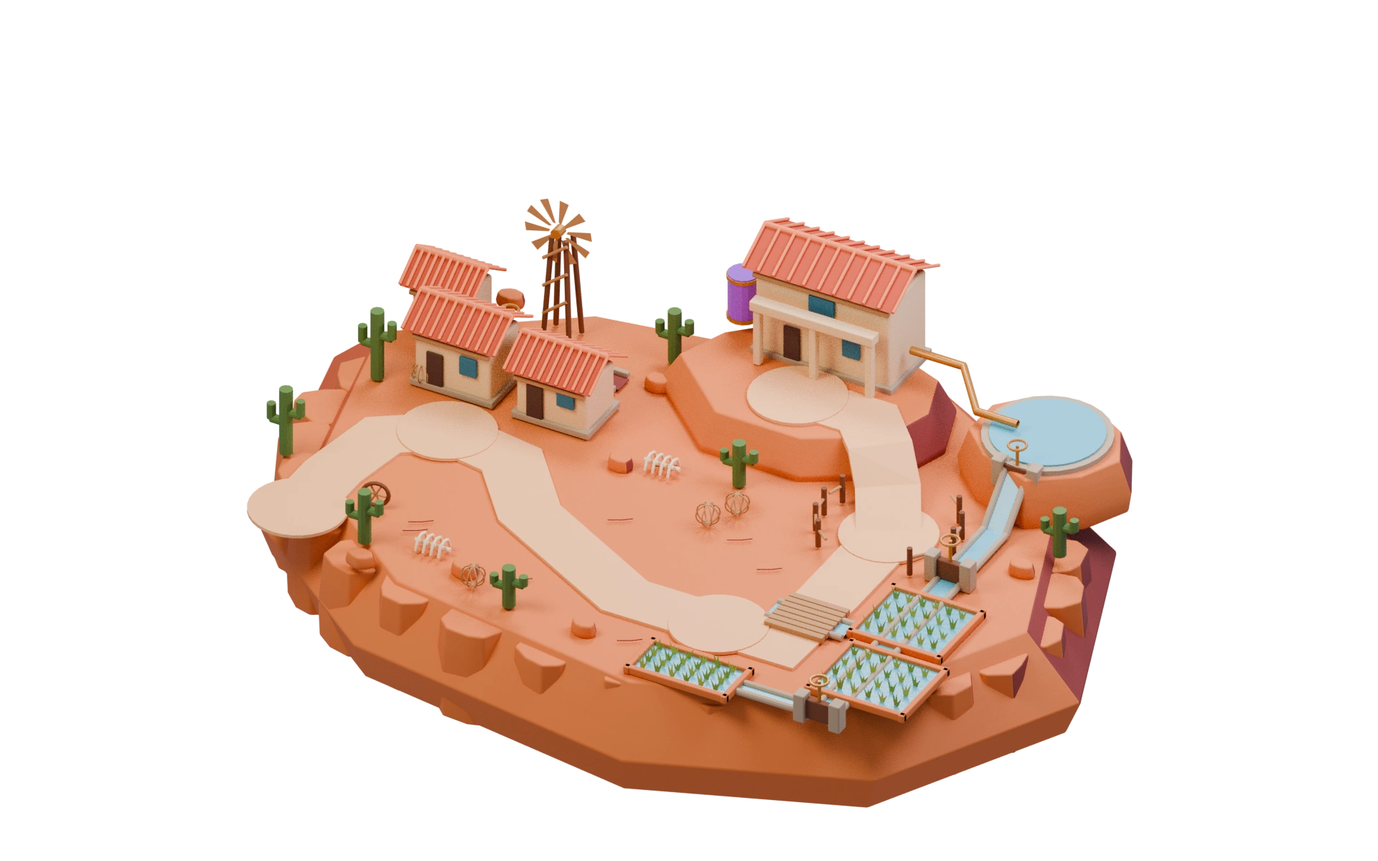
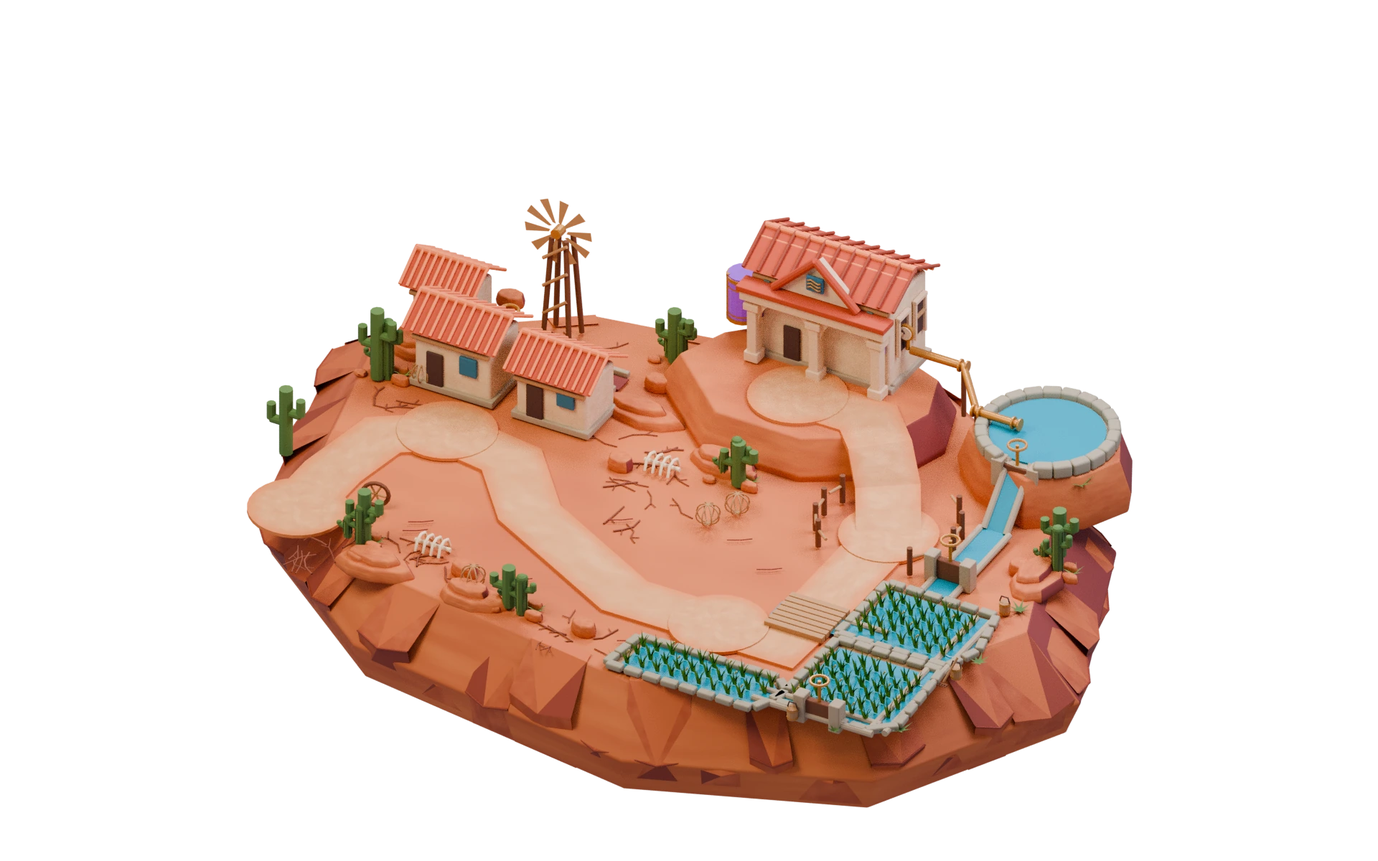
Refine Guaíra civic architecture, clay cliffs and connected irrigation

Changed region(s): [[0.1562, 0.2467, 0.8125, 0.9558]]

diff --git a/tools/diorama/guaira/build_guaira.py b/tools/diorama/guaira/build_guaira.py
@@ -1,4 +1,4 @@
-"""Original, deterministic Guaíra candidate. Blender 4.3+, CPU Cycles.
+"""Second polish pass of the original deterministic Guaíra candidate. Blender 4.3+, CPU Cycles.
 blender -b -t 8 --python source/build_guaira.py -- --output-dir . [--draft]
 No campaign identifiers, no changes outside output directory.
 """
@@ -162,6 +162,252 @@ for a in [0,math.pi/3,2*math.pi/3]:beam('Cart wheel spoke',(x-.17*math.cos(a),y,
 # A light worn material texture at prop scale, never over the route.
 for m in [soil,sun,plaster,roof]:
  nt=m.node_tree;p=nt.nodes.get('Principled BSDF');n=nt.nodes.new('ShaderNodeTexNoise');n.inputs['Scale'].default_value=7;b=nt.nodes.new('ShaderNodeBump');b.inputs['Strength'].default_value=.12;b.inputs['Distance'].default_value=.04;nt.links.new(n.outputs['Fac'],b.inputs['Height']);nt.links.new(b.outputs[0],p.inputs['Normal'])
+# Second authored pass: civic craft, geological strata, and connected irrigation.
+# Walk geometry and camera contract are deliberately untouched.
+random.seed(61027)
+def remove_prefix(*prefixes):
+ for o in list(bpy.data.objects):
+  if any(o.name.startswith(p) for p in prefixes):bpy.data.objects.remove(o,do_unlink=True)
+cream=mat('Civic limestone trim','E3C394');warmwhite=mat('Weathered civic stucco','D7BA8B');claydark=mat('Iron-rich clay seams','90442C');claylight=mat('Fresh terracotta breaks','C86C39');sand=mat('Weathered dry crust','CB8850');bank=mat('Compacted irrigation banks','9E7847');wetstone=mat('Old canal sandstone','9A9474');patina=mat('Bronze aged patina','567568',.52,.45);tiledeep=mat('Curved tile shadow','93442A');fadedpurple=mat('Civic plum cloth','805180');leafdark=mat('Cactus shaded ribs','405D30');leaflight=mat('Cactus sun ribs','759747');reed=mat('Golden rice tips','C6BA60');crackmat=mat('Fine deep drought fissures','874C32');waterdeep=mat('Irrigated cyan shallows','348F9B',.22)
+def set_color(material,h):
+ c=[int(h[k:k+2],16)/255 for k in (0,2,4)];c=[v/12.92 if v<=.04045 else ((v+.055)/1.055)**2.4 for v in c];material.diffuse_color=(*c,1);material.node_tree.nodes.get('Principled BSDF').inputs['Base Color'].default_value=(*c,1)
+set_color(water,'168F9B');set_color(rice,'3D7228');set_color(ricehi,'66932E');set_color(reed,'A99C45')
+for material in [water,rice,ricehi]:material.node_tree.nodes.get('Principled BSDF').inputs['Specular IOR Level'].default_value=.14
+water.node_tree.nodes.get('Principled BSDF').inputs['Roughness'].default_value=.38
+# Fine deterministic tonal finish replaces the flat-looking top and paved ribbon.
+def color_noise(m,colors,scale,detail=2):
+ nt=m.node_tree;bs=nt.nodes.get('Principled BSDF');noise=nt.nodes.new('ShaderNodeTexNoise');noise.inputs['Scale'].default_value=scale;noise.inputs['Detail'].default_value=detail;noise.inputs['Roughness'].default_value=.68
+ ramp=nt.nodes.new('ShaderNodeValToRGB');ramp.color_ramp.elements.remove(ramp.color_ramp.elements[1]);
+ for i,(pos,h) in enumerate(colors):
+  el=ramp.color_ramp.elements[0] if i==0 else ramp.color_ramp.elements.new(pos);el.position=pos;c=[int(h[k:k+2],16)/255 for k in (0,2,4)];el.color=(*[s/12.92 if s<=.04045 else ((s+.055)/1.055)**2.4 for s in c],1)
+ nt.links.new(noise.outputs['Fac'],ramp.inputs['Fac']);nt.links.new(ramp.outputs['Color'],bs.inputs['Base Color'])
+color_noise(soil,[(.2,'A94F2B'),(.8,'CA7242')],3.2)
+color_noise(sun,[(.18,'B35A31'),(.82,'D78145')],4.2)
+color_noise(trail,[(.2,'C98B52'),(.52,'D39B60'),(.8,'E0AD72')],8)
+color_noise(bank,[(.2,'916D46'),(.8,'B28D58')],6)
+color_noise(plaster,[(.18,'D8B888'),(.82,'EAD2A4')],5)
+# Additional very fine dry grit on the walk material is shading, never topology.
+nt=trail.node_tree;no=nt.nodes.new('ShaderNodeTexNoise');no.inputs['Scale'].default_value=85;b=nt.nodes.new('ShaderNodeBump');b.inputs['Strength'].default_value=.17;b.inputs['Distance'].default_value=.012;nt.links.new(no.outputs['Fac'],b.inputs['Height']);nt.links.new(b.outputs['Normal'],nt.nodes.get('Principled BSDF').inputs['Normal'])
+# Feathered dust coloration softens the engineered mesh outline. This only
+# edits the walk material; every authored vertex and support face stays intact.
+nt=trail.node_tree;nodes=nt.nodes;links=nt.links;bs=nodes.get('Principled BSDF')
+oldcolor=bs.inputs['Base Color'].links[0].from_socket
+geom=nodes.new('ShaderNodeNewGeometry');split=nodes.new('ShaderNodeSeparateXYZ');links.new(geom.outputs['Position'],split.inputs[0]);xy=nodes.new('ShaderNodeCombineXYZ');links.new(split.outputs['X'],xy.inputs['X']);links.new(split.outputs['Y'],xy.inputs['Y'])
+def vop(op,a,b=None):
+ n=nodes.new('ShaderNodeVectorMath');n.operation=op
+ if hasattr(a,'node'):links.new(a,n.inputs[0])
+ else:n.inputs[0].default_value=a
+ if b is not None:
+  if hasattr(b,'node'):links.new(b,n.inputs[1])
+  else:n.inputs[1].default_value=b
+ return n
+nearest=None
+for rr in ROUTES:
+ for aa,bb in zip(rr,rr[1:]):
+  aa=Vector((aa[0],aa[1],0));bb=Vector((bb[0],bb[1],0));dv=bb-aa
+  rel=vop('SUBTRACT',xy.outputs[0],aa);dot=vop('DOT_PRODUCT',rel.outputs[0],dv/dv.length_squared)
+  clamp=nodes.new('ShaderNodeClamp');links.new(dot.outputs['Value'],clamp.inputs['Value'])
+  mul=vop('SCALE',dv);links.new(clamp.outputs[0],mul.inputs['Scale']);delta=vop('SUBTRACT',rel.outputs[0],mul.outputs[0]);dist=vop('LENGTH',delta.outputs[0]).outputs['Value']
+  if nearest is None:nearest=dist
+  else:
+   mn=nodes.new('ShaderNodeMath');mn.operation='MINIMUM';links.new(nearest,mn.inputs[0]);links.new(dist,mn.inputs[1]);nearest=mn.outputs[0]
+for pp in NODES.values():
+ d=vop('DISTANCE',xy.outputs[0],(pp[0],pp[1],0)).outputs['Value'];sub=nodes.new('ShaderNodeMath');sub.operation='SUBTRACT';links.new(d,sub.inputs[0]);sub.inputs[1].default_value=.27
+ mn=nodes.new('ShaderNodeMath');mn.operation='MINIMUM';links.new(nearest,mn.inputs[0]);links.new(sub.outputs[0],mn.inputs[1]);nearest=mn.outputs[0]
+ramp=nodes.new('ShaderNodeMapRange');links.new(nearest,ramp.inputs['Value']);ramp.inputs['From Min'].default_value=.27;ramp.inputs['From Max'].default_value=.49;ramp.inputs['To Min'].default_value=0;ramp.inputs['To Max'].default_value=.82
+mix=nodes.new('ShaderNodeMixRGB');links.new(ramp.outputs['Result'],mix.inputs[0]);links.new(oldcolor,mix.inputs[1]);mix.inputs[2].default_value=sun.diffuse_color;links.new(mix.outputs[0],bs.inputs['Base Color'])
+# Remove regular rim pegs, replacing them with an irregular continuous sediment face.
+remove_prefix('Faceted edge ')
+base=bpy.data.objects['Continuous clay island'];N=9
+ring=[Vector(v.co) for v in base.data.vertices[18:27]]
+# Keep the original continuous solid clay core behind the fractured skin.
+# This closes all joints, including the left platform and low front seams.
+# Interlocking angular cliff panels match the original top contour. The
+# silhouette uses shared seams and irregular chips, never a repeated peg ring.
+for face in range(9):
+ pa,pb=ring[face],ring[(face+1)%9];tangent=(pb-pa).normalized();normal=Vector((tangent.y,-tangent.x,0));normal.normalize()
+ steps=5 if (pb-pa).length>4 else 4
+ cuts=[0]+sorted([i/steps+random.uniform(-.052,.052) for i in range(1,steps)])+[1]
+ for bay,(ta,tb) in enumerate(zip(cuts,cuts[1:])):
+  a,b=pa.lerp(pb,ta),pa.lerp(pb,tb);mid=(a+b)/2
+  top=random.uniform(1.69,1.78);zz=random.uniform(.15,.30);bulge=random.uniform(.05,.24);split=random.uniform(.69,1.14)
+  # Wide angular slabs fit the core face, with a broken bevel on each side.
+  vs=[tuple(a+Vector((0,0,top-a.z))),tuple(b+Vector((0,0,top-b.z))),
+      tuple(b*1.115+normal*bulge+Vector((0,0,split-b.z*1.115))),tuple(mid*1.135+normal*bulge+Vector((0,0,split*.91-mid.z*1.135))),
+      tuple(a*1.115+normal*bulge+Vector((0,0,split-a.z*1.115))),
+      tuple(a/0.9+Vector((0,0,zz-a.z/0.9))),tuple(b/0.9+Vector((0,0,zz-b.z/0.9))),
+      tuple(a*.95+Vector((0,0,top+.015-a.z*.95))),tuple(b*.95+Vector((0,0,top+.015-b.z*.95)))]
+  ob=mesh('Fitted fractured cliff %d %d'%(face,bay),vs,[(0,1,3),(1,2,3),(0,3,4),(4,3,5),(3,2,6,5),(0,7,8,1)],soil)
+  ob.data.materials.append(claylight);ob.data.materials.append(claydark)
+  for poly in ob.data.polygons:poly.material_index=1 if poly.index in [0,5] else 2 if (bay+poly.index)%4==0 else 0
+  bevel(ob,.008)
+  if bay%2==0:
+   # One angular sediment break is embedded in each alternating face.
+   seam=[(v[0],v[1],v[2]) for v in vs[2:5]]
+   curve('Broken horizontal sediment seam',seam,.017,claydark)
+# Layered smaller exposed shoulders within the island and at the civic terrace.
+for x,y,rx,ry in [(-3.25,-3.56,.66,.32),(-1.6,-3.63,.56,.28),(-5.5,1.85,.43,.45),(-1.7,1.82,.72,.29),(.05,1.25,.60,.28),(5.62,.85,.36,.62)]:
+ if clear(x,y,1.10):
+  rock('Low eroded shoulder',x,y,1.67,rx,ry,.22)
+  rock('Shoulder broken cap',x-.06,y+.03,1.84,rx*.65,ry*.65,.15)
+# Coherent branching drought fissures in generous dry interior patches.
+for ci,(x,y,sx,sy) in enumerate([(-2.8,-2.65,.6,.45),(-.7,-.12,1.0,.75),(-1.15,1.0,.60,.35),(-4.1,-3.55,.45,.25),(-5.2,.35,.35,.48),(.35,-3.70,.42,.22),(-3.45,2.8,.4,.3)]):
+ for k in range(8):
+  xx=x+random.uniform(-sx,sx);yy=y+random.uniform(-sy,sy)
+  if not clear(xx,yy,.69):continue
+  aa=random.uniform(0,math.tau);ps=[(xx,yy,1.764)]
+  for j in range(3):
+   aa+=random.uniform(-.6,.6);xx+=math.cos(aa)*random.uniform(.12,.25);yy+=math.sin(aa)*random.uniform(.12,.25)
+   if not clear(xx,yy,.65):break
+   ps.append((xx,yy,1.765+random.uniform(0,.002)))
+  if len(ps)>1:
+   curve('Branched soil fissure',ps,.009 if k%3 else .014,crackmat)
+   mid=ps[len(ps)//2];curve('Fissure fine branch',[mid,(mid[0]+.13*math.cos(aa+1.1),mid[1]+.13*math.sin(aa+1.1),1.766)],.007,crackmat)
+# Natural cactus groups have tapered stems and longitudinal ribs.
+def cactustip(n,p,r):
+ bpy.ops.mesh.primitive_uv_sphere_add(segments=10,ring_count=6,radius=r,location=p);ob=bpy.context.object;ob.name=n;ob.scale.z=.70;assign(ob,leaf)
+def cactus_ribbed(x,y,z,h,r=.10):
+ beam('Cluster cactus stem',(x,y,z),(x,y,z+h),r,leaf);cactustip('Rounded cactus tip',(x,y,z+h),r)
+ for k in range(7):
+  a=k*math.tau/7;curve('Long cactus rib',[(x+math.cos(a)*r,y+math.sin(a)*r,z+.08),(x+math.cos(a)*r*.98,y+math.sin(a)*r*.98,z+h-.035)],.012,leaflight if k%2 else leafdark)
+ for sg,f in [(-1,.43),(1,.66)]:
+  reach=r*2.3;beam('Curved cactus arm',(x,y,z+h*f),(x+sg*reach,y,z+h*f+.05),r*.62,leaf);beam('Cluster upright',(x+sg*reach,y,z+h*f+.05),(x+sg*reach,y,z+h*(f+.23)),r*.62,leaf);cactustip('Cactus arm tip',(x+sg*reach,y,z+h*(f+.23)),r*.62)
+def rosette(x,y,z,s,matl=leaflight):
+ for i in range(7):
+  a=i*math.tau/7;dx,dy=math.cos(a),math.sin(a);v=(-dy*.055*s,dx*.055*s,0)
+  mesh('Dry agave blade',[(x-v[0],y-v[1],z),(x+v[0],y+v[1],z),(x+dx*.22*s,y+dy*.22*s,z+.11*s),(x+dx*.32*s,y+dy*.32*s,z+.16*s)],[(0,1,2),(0,2,3)],matl)
+for gi,(x,y,h) in enumerate([(-5.58,.92,1.0),(-3.83,-3.15,.68),(-.86,-3.59,.64),(.34,.94,.79),(-1.89,3.33,.76),(5.71,1.10,.85)]):
+ if clear(x,y,1.05):
+  cactus_ribbed(x+.1,y,1.76,h,.085)
+  cactus_ribbed(x-.18,y+.1,1.76,h*.48,.065)
+  for j in range(3):
+   dx,dy=[(-.30,-.13),(.20,.22),(.34,-.06)][j]
+   if clear(x+dx,y+dy,1):rock('Cactus family stones',x+dx,y+dy,1.755,.11+.02*j,.08,.08+.03*j)
+  rosette(x+.28,y+.15,1.765,.6)
+# Civic facade: local stucco, projecting cornices, arched porch, and water crest.
+remove_prefix('Civic portico column','Civic portico beam','Civic ceramic water plaque','Casa da Vazao window')
+cube('Civic base plinth',(.6,3.53,2.48),(2.43,.35,.14),stone,.035)
+for x in [-.45,.6,1.65]:
+ cube('Porch column foot',(x,3.12,2.51),(.24,.25,.17),cream,.022)
+ cube('Porch stucco pier',(x,3.12,2.97),(.16,.19,.88),cream,.018)
+ cube('Porch column capital',(x,3.12,3.41),(.26,.26,.12),cream,.016)
+def arch(n,x,y,z,w,h,thick,material):
+ # Semicircular ring in the facade plane with actual empty opening.
+ vs=[]
+ for yy in [y-.045,y+.045]:
+  for r in [w/2,w/2+thick]:
+   for k in range(13):
+    a=k*math.pi/12;vs.append((x+r*math.cos(a),yy,z+h+r*math.sin(a)))
+ fs=[]
+ for k in range(12):fs.extend([(k,k+1,13+k+1,13+k),(26+k,39+k,39+k+1,26+k+1),(k,26+k,26+k+1,k+1),(13+k,13+k+1,39+k+1,39+k)])
+ mesh(n,vs,fs,material)
+for x in [.075,1.125]:arch('Porch open arc',x,3.12,2.4,.86,.73,.11,cream)
+cube('Civic porch entablature',(.6,3.12,3.62),(2.46,.30,.18),cream,.018)
+cube('Porch shadow cornice',(.6,3.08,3.76),(2.52,.34,.095),roof,.016)
+# Two shuttered upper windows and windowed side wall give the building all-around craft.
+for x in [-.16,1.33]:
+ cube('Upper dark window',(x,3.294,3.67),(.31,.05,.35),dark,.025)
+ for xx in [x-.13,x+.13]:cube('Civic teal shutters',(xx,3.245,3.67),(.11,.07,.32),patina,.012)
+ cube('Upper carved sill',(x,3.22,3.48),(.41,.15,.065),cream,.012)
+for y in [3.65,4.17]:
+ cube('Side recessed tall window',(1.768,y,3.29),(.035,.27,.62),dark,.018)
+ for yy in [y-.15,y+.15]:cube('Side window jamb',(1.798,yy,3.29),(.065,.045,.67),cream,.010)
+ cube('Side window lintel',(1.80,y,3.63),(.08,.35,.065),cream,.010)
+ cube('Side window transom',(1.805,y,3.35),(.065,.27,.034),timber,.004)
+# Modest central pediment rises from the existing roof rather than a boss-sized palace.
+vs=[(-.06,3.16,3.82),(1.26,3.16,3.82),(.6,3.16,4.48),(-.06,3.34,3.82),(1.26,3.34,3.82),(.6,3.34,4.48)]
+mesh('Civic central triangular pediment',vs,[(0,1,2),(3,5,4),(0,3,4,1),(0,2,5,3),(1,4,5,2)],plaster)
+for a,b in [((-.11,3.11,3.84),(.6,3.11,4.53)),((.6,3.11,4.53),(1.31,3.11,3.84))]:beam('Pediment terracotta coping',a,b,.065,roof)
+cube('Civic crest ceramic field',(.6,3.095,4.13),(.30,.055,.27),deep,.025)
+# Three bronze wavelets read as a water seal without baked text.
+for zz in [4.07,4.13,4.19]:curve('Bronze water crest',[(.49,3.058,zz),(.55,3.057,zz+.025),(.61,3.057,zz),(.67,3.057,zz-.022),(.72,3.057,zz)],.014,brass)
+# Small banners on the two side piers, short enough to keep every arrival visible.
+for x in [-.43,1.64]:
+ cube('Restrained civic cloth',(x,3.27,3.31),(.12,.035,.39),fadedpurple,.006)
+ beam('Banner brass rod',(x-.11,3.25,3.54),(x+.11,3.25,3.54),.018,brass)
+# Tile course joins turn the flat roof strips into a crafted clay roof.
+for obj in list(bpy.data.objects):
+ if obj.name.startswith(('Casa da Vazao ridge tile','Casa da Vazao back tile')):
+  obj.data.materials[0]=tiledeep
+for y,z in [(3.37,3.99),(3.55,4.10),(3.73,4.21),(4.10,4.21),(4.29,4.10),(4.48,3.99)]:
+ beam('Civic overlapping tile course',(-.66,y,z),(1.86,y,z),.025,roofhi)
+# Bronze manifold has flanges, brackets and a legible meter, independent of the mystery tank.
+for x,y,z in [(2.80,3.7,3.0),(3.40,3.0,2.8),(4.08,3.0,2.8)]:
+ for dx in [-.055,.055]:
+  ob=cyl('Diversion flanged collar',(x+dx,y,z),.10,.025,brass);ob.rotation_euler.y=math.pi/2
+for x,y,z in [(2.80,3.7,3.0),(3.40,3.0,2.8)]:
+ beam('Pipe support bracket',(x,y,2.1),(x,y,z),.038,wood)
+# Dial faces toward the same viewing camera; no written labels.
+beam('Civic meter neck',(1.85,3.7,3.0),(1.85,3.7,3.30),.035,brass)
+ob=cyl('Civic bronze pressure gauge',(1.85,3.64,3.34),.14,.055,brass,24);ob.rotation_euler.x=math.pi/2
+ob=cyl('Pressure gauge ivory face',(1.85,3.605,3.34),.11,.015,bone,24);ob.rotation_euler.x=math.pi/2
+beam('Pressure gauge needle',(1.85,3.59,3.34),(1.81,3.59,3.40),.012,dark)
+# Mysterious purple material stays sealed and visibly separate from the clean supply.
+bpy.data.materials['Separate clandestine juice tank'].name='Sealed mysterious purple slime'
+for xx in [-1.18,-.82]:beam('Mystery tank cage',(xx,3.65,2.60),(xx,3.65,3.41),.026,brass)
+for z in [2.73,3.20]:
+ ob=cyl('Mystery tank thin bronze collar',(-1,3.8,z),.247,.022,brass,20)
+# Irrigation: three larger ponds share an earthen terrace and common cyan channels.
+remove_prefix('Paddy ','Rice tuft','Paddy earthen bank','Lower paddy feed','Paddy lateral inlet','Lower return','Field feeder')
+# Low contiguous banks retain the island surface, avoiding separate tray silhouettes.
+terraces=[('Upper',[(3.72,-.38),(5.58,-.38),(5.77,-1.32),(5.55,-1.91),(3.70,-1.91)]),('Lower',[(3.77,-2.04),(5.55,-2.04),(5.65,-3.64),(5.30,-3.94),(3.74,-3.93)]),('Cross',[(1.13,-3.39),(3.49,-3.36),(3.78,-3.64),(3.52,-4.26),(1.03,-4.25)])]
+def patch(n,points,z,material):return mesh(n,[(x,y,z) for x,y in points],[tuple(range(len(points)))],material)
+for name,pts in terraces:
+ patch('Connected '+name+' earth terrace',pts,1.787,bank)
+ # Water inset uses a shared bank material rather than a raised toy frame.
+ cx=sum(p[0] for p in pts)/len(pts);cy=sum(p[1] for p in pts)/len(pts);inner=[(cx+(x-cx)*.89,cy+(y-cy)*.86) for x,y in pts]
+ patch(name+' cyan irrigated paddy',inner,1.81,water)
+ # Broken, modest-height sandstone blocks sit in the broad earthen banks.
+ for a,b in zip(pts,pts[1:]+pts[:1]):
+  av,bv=Vector(a),Vector(b);ll=(bv-av).length;steps=max(1,round(ll/.30))
+  for i in range(steps):
+   p=av.lerp(bv,(i+.5)/steps)
+   if not clear(p.x,p.y,.56):continue
+   ob=cube('Embedded old paddy bank stone',(p.x,p.y,1.835),(.27,.14,.105),wetstone,.026);ob.rotation_euler.z=math.atan2(b[1]-a[1],b[0]-a[0]);ob.rotation_euler.z+=random.uniform(-.035,.035)
+ # Ordered but hand-planted rice clumps; readable channels remain between rows.
+ xmin,xmax=min(x for x,y in inner),max(x for x,y in inner);ymin,ymax=min(y for x,y in inner),max(y for x,y in inner)
+ for row in range(round((ymax-ymin)/.24)):
+  for col in range(round((xmax-xmin)/.24)):
+   xx=xmin+.12+col*.24+random.uniform(-.025,.025);yy=ymin+.12+row*.24+random.uniform(-.025,.025)
+   if xx>xmax-.1 or yy>ymax-.1:continue
+   # Polygon inside test; keeps rice entirely inside the water bank.
+   inside=False;j=len(inner)-1
+   for i in range(len(inner)):
+    xi,yi=inner[i];xj,yj=inner[j]
+    if (yi>yy)!=(yj>yy) and xx<(xj-xi)*(yy-yi)/(yj-yi)+xi:inside=not inside
+    j=i
+   if not inside:continue
+   for blade in range(5):
+    a=blade*2.4;h=random.uniform(.18,.32);lean=.075+random.random()*.035
+    mesh('Curved rice leaves',[(xx-.031,yy,1.82),(xx+.031,yy,1.82),(xx+math.cos(a)*lean*.45,yy+math.sin(a)*lean*.45,1.82+h*.75),(xx+math.cos(a)*lean,yy+math.sin(a)*lean,1.82+h)],[(0,1,2),(0,2,3)],rice if blade%2 else ricehi)
+   if (row+col)%4==0:beam('Rice grain head',(xx,yy,2.02),(xx+.035,yy,2.08),.012,reed)
+# All irrigated beds connect to the existing water descent and crossing.
+channel('Shared field supply',(4.5,1.55,1.86),(4.5,-.30,1.82),.48)
+channel('Eastern communicating canal',(5.45,-.55,1.825),(5.45,-3.88,1.825),.24)
+channel('Lower shared outflow',(5.42,-3.85,1.825),(3.38,-3.85,1.825),.27)
+channel('Bridge lateral clean inlet',(4.35,-1.74,1.825),(2.56,-1.74,1.825),.40)
+# Canal banks stop outside the unchanged crossing, preserving all sprite feet.
+remove_prefix('Bridge lateral clean inlet retaining lip')
+for yy in [-1.94,-1.54]:beam('Bridge bank stops before walk',(4.35,yy,1.825),(3.68,yy,1.825),.055,stone)
+# Subtle short ripples reinforce flow without busy animated-looking decoration.
+for x,y,ll in [(4.50,1.15,.18),(4.50,.62,.18),(5.46,-1.64,.13),(5.46,-2.52,.13),(4.1,-3.85,.20)]:
+ curve('Quiet canal glint',[(x-ll/2,y,1.837),(x,y-.017,1.839),(x+ll/2,y,1.837)],.007,white)
+# Bank-side tools make irrigation feel worked, kept away from the walk crossing.
+for x,y in [(5.60,-.17),(5.78,-2.02),(4.14,-4.13)]:
+ cyl('Water keeper bucket',(x,y,1.88),.085,.19,timber,12)
+ for zz in [1.815,1.95]:cyl('Bucket bronze hoop',(x,y,zz),.09,.019,brass,12)
+ curve('Bucket loop handle',[(x-.083,y,1.98),(x-.055,y,2.07),(x+.055,y,2.07),(x+.083,y,1.98)],.012,dark)
+beam('Irrigation rake handle',(5.68,-2.24,1.80),(5.82,-2.05,2.18),.018,timber)
+beam('Irrigation rake head',(5.63,-2.29,1.80),(5.78,-2.29,1.80),.018,wood)
+for xx in [5.64,5.68,5.72,5.76]:beam('Rake teeth',(xx,-2.29,1.8),(xx,-2.35,1.8),.010,wood)
+# The reservoir receives laid masonry, a low cyan lip, and bank vegetation.
+for k in range(22):
+ a=k*math.tau/22;xx=4.5+math.cos(a)*1.0;yy=3.2+math.sin(a)*1.0
+ if yy<2.40 and abs(xx-4.5)<.35:continue
+ ob=cube('Reservoir laid rim stone',(xx,yy,2.66),(.29,.19,.22),wetstone,.04);ob.rotation_euler.z=a+math.pi/2
+for x,y,s in [(5.70,-3.63,.66),(5.88,-1.50,.62),(5.76,.0,.66),(4.84,-4.11,.48),(1.03,-4.00,.5),(5.41,2.55,.8),(4.0,4.03,.7)]:
+ if clear(x,y,.9):rosette(x,y,1.77 if y<2 else 2.4,s,leaf)
+
 scene=bpy.context.scene;bpy.ops.object.camera_add(location=(11,-20,18.85));cam=bpy.context.object;target=Vector((0,.25,3.0));cam.rotation_euler=(target-cam.location).to_track_quat('-Z','Y').to_euler();cam.data.type='ORTHO';cam.data.ortho_scale=20.6;scene.camera=cam
 world=bpy.data.worlds.new('Warm dry atmosphere');scene.world=world;world.use_nodes=True;world.node_tree.nodes['Background'].inputs[0].default_value=(.62,.58,.80,1);world.node_tree.nodes['Background'].inputs[1].default_value=.55
 for n,p,e,s,c in [('golden key',(-8,-10,19),2400,9,(1,.83,.65)),('lilac fill',(8,3,13),1700,8,(.73,.70,1)),('warm rim',(-4,10,17),1800,7,(.96,.90,1))]:

diff --git a/tools/diorama/guaira/package_guaira.py b/tools/diorama/guaira/package_guaira.py
@@ -7,6 +7,7 @@ from PIL import Image
 parser = argparse.ArgumentParser()
 parser.add_argument('--input', type=Path, required=True)
 parser.add_argument('--output', type=Path, required=True)
+parser.add_argument('--quality', type=int, default=92, choices=range(1, 101), help='WebP quality; 92 preserves the polish within the original payload budget')
 args = parser.parse_args()
 image = Image.open(args.input / 'guaira-diorama.png').convert('RGBA')
 assert image.size == (1920, 1200), 'Never package a --draft render'
@@ -22,6 +23,6 @@ metadata['artBounds'] = dict(zip(['left', 'top', 'right', 'bottom'], [bounds[0] 
 metadata['status'] = 'experimental-isolated-map'
 metadata['note'] = 'Projected Blender geometry for the isolated Guaíra experiment. No campaign world number, save schema, or persistent progress.'
 args.output.mkdir(parents=True, exist_ok=True)
-image.save(args.output / 'guaira-diorama.webp', quality=94, method=6, exact=True)
+image.save(args.output / 'guaira-diorama.webp', quality=args.quality, method=6, exact=True)
 (args.output / 'guaira-diorama.meta.json').write_text(json.dumps(metadata, indent=2, ensure_ascii=False))
 print('Packaged 1920×1200 RGBA image and exact camera metadata.')

diff --git a/docs/guaira-map.md b/docs/guaira-map.md
@@ -35,7 +35,7 @@ Metadados/imagem inválidos exibem um estado terminal com links para os quatro e
 
 ## Arte e reprodução
 
-Asset: `public/assets/world/experimental/guaira/guaira-diorama.webp`, RGBA WebP qualidade 94, 1920×1200. A codificação conserva exatamente o canal alpha e reduz o download do original lossless de 893.266 bytes; o manifesto registra o tamanho final. A textura vem do render Blender original; nenhuma concept art foi colocada no runtime. Metadados preservam todas as coordenadas projetadas, com apenas a descrição de status adaptada ao experimento. O manifesto em `tools/diorama/guaira/manifest.json` registra hashes e proveniência. Fontes Blender/Python ficam em `tools/diorama/guaira`; `.blend`, masters PNG e provas não são enviados ao site.
+Asset: `public/assets/world/experimental/guaira/guaira-diorama.webp`, RGBA WebP qualidade 92, 1920×1200, 189.388 bytes. O passe Blender v2 enriquece fachada e tubulações, falésias/solo e margens irrigadas; substitui a base anterior de 195.902 bytes, sem camada ou textura adicional. A codificação conserva exatamente o alpha do novo PNG correspondente; nenhuma concept art foi colocada no runtime. Metadados, incluindo artBounds, câmera, cinco âncoras e quatro rotas, continuam byte-idênticos. O manifesto em `tools/diorama/guaira/manifest.json` registra hashes e proveniência. Fontes Blender/Python ficam em `tools/diorama/guaira`; `.blend`, masters PNG e provas não são enviados ao site.
 
 Reproduzir fora do repositório de produção, com Blender 4.3.2 e Pillow:
 
@@ -50,6 +50,6 @@ A fonte usa Cycles CPU, 48 amostras e nenhum denoiser. `--draft` não pode ser e
 
 Os testes próprios cobrem os três destinos permanentes, o retorno neutro do arrozal, a entrada contextual da casa, o retorno do Prefeito pausado, o percurso exato da casa ao curral, a troca de experiência sem deslocamento, reversões rápidas, entrada antes da chegada, cliques atrasados após nova seleção, skip, movimento reduzido, limites de câmera, erro explícito com decode pendente, carregamento lento, descarte ao sair, reload e restauração bfcache. O teste do entrypoint usa o controlador de produção com EventTarget e ambiente DOM mínimo, tornando qualquer acesso a `localStorage` um erro. O retorno pausado verifica o link nativo e o modelo reconstruído; a navegação real é responsabilidade do QA em navegador.
 
-As provas offline usam o pintor real da cena/ator e das placas; cabeçalho e painel são composições equivalentes, não capturas de browser. Incluem desktop, celular, 320×480, 472×303 e paisagem. As três placas de escolha medem 118 + 70 + 82 px, com dois intervalos de 8 px: cabem na área de 296 px de uma tela de 320 px. Na Casa, as placas contextuais **VOLTAR** (82 px) e **PREFEITO** (106 px) mantêm 44 px de altura, empilhadas com intervalo de 5 px no modo compacto. Em telas estreitas e baixas, as escolhas ocupam uma linha inteira, e as ações ficam na linha seguinte. Painéis de carregamento/falha permitem rolagem desde o início. Os testes matemáticos de viewport verificam o retângulo 16×26 de todos os frames, mas não provam oclusão 3D animada. A auditoria Blender original cobre pixels do sprite parado. Layout CSS real, toques nativos e recorte móvel precisam de QA em navegador pelo integrador antes de uma alegação de validação visual completa.
+As provas offline usam o pintor real da cena/ator e das placas; cabeçalho e painel são composições equivalentes, não capturas de browser. Incluem desktop, celular, 320×480, 472×303 e paisagem. As três placas de escolha medem 118 + 70 + 82 px, com dois intervalos de 8 px: cabem na área de 296 px de uma tela de 320 px. Na Casa, as placas contextuais **VOLTAR** (82 px) e **PREFEITO** (106 px) mantêm 44 px de altura, empilhadas com intervalo de 5 px no modo compacto. Em telas estreitas e baixas, as escolhas ocupam uma linha inteira, e as ações ficam na linha seguinte. Painéis de carregamento/falha permitem rolagem desde o início. Os testes matemáticos de viewport verificam o retângulo 16×26 de todos os frames. No passe Blender v2, 760.800 raios cobrem a união de 317 pixels opacos dos sete frames (idle e seis de caminhada), cinco amostras por pixel, ambos os lados e 240 posições de rota; não houve oclusão de cabeça, rosto, corpo ou pés. Os 720 probes de apoio passaram, e 16 meshes de caminhada mantêm vértices, faces, transforms e modificadores exatos. Esse é um audit geométrico estático com todas as silhuetas, distinto do QA de movimento, foco, CSS e recorte no navegador. Dispositivos físicos e calibração humana continuam verificações separadas.
 
 As provas e logs ficam fora da árvore de produção; esta entrega não publica nem altera o jogo principal.
